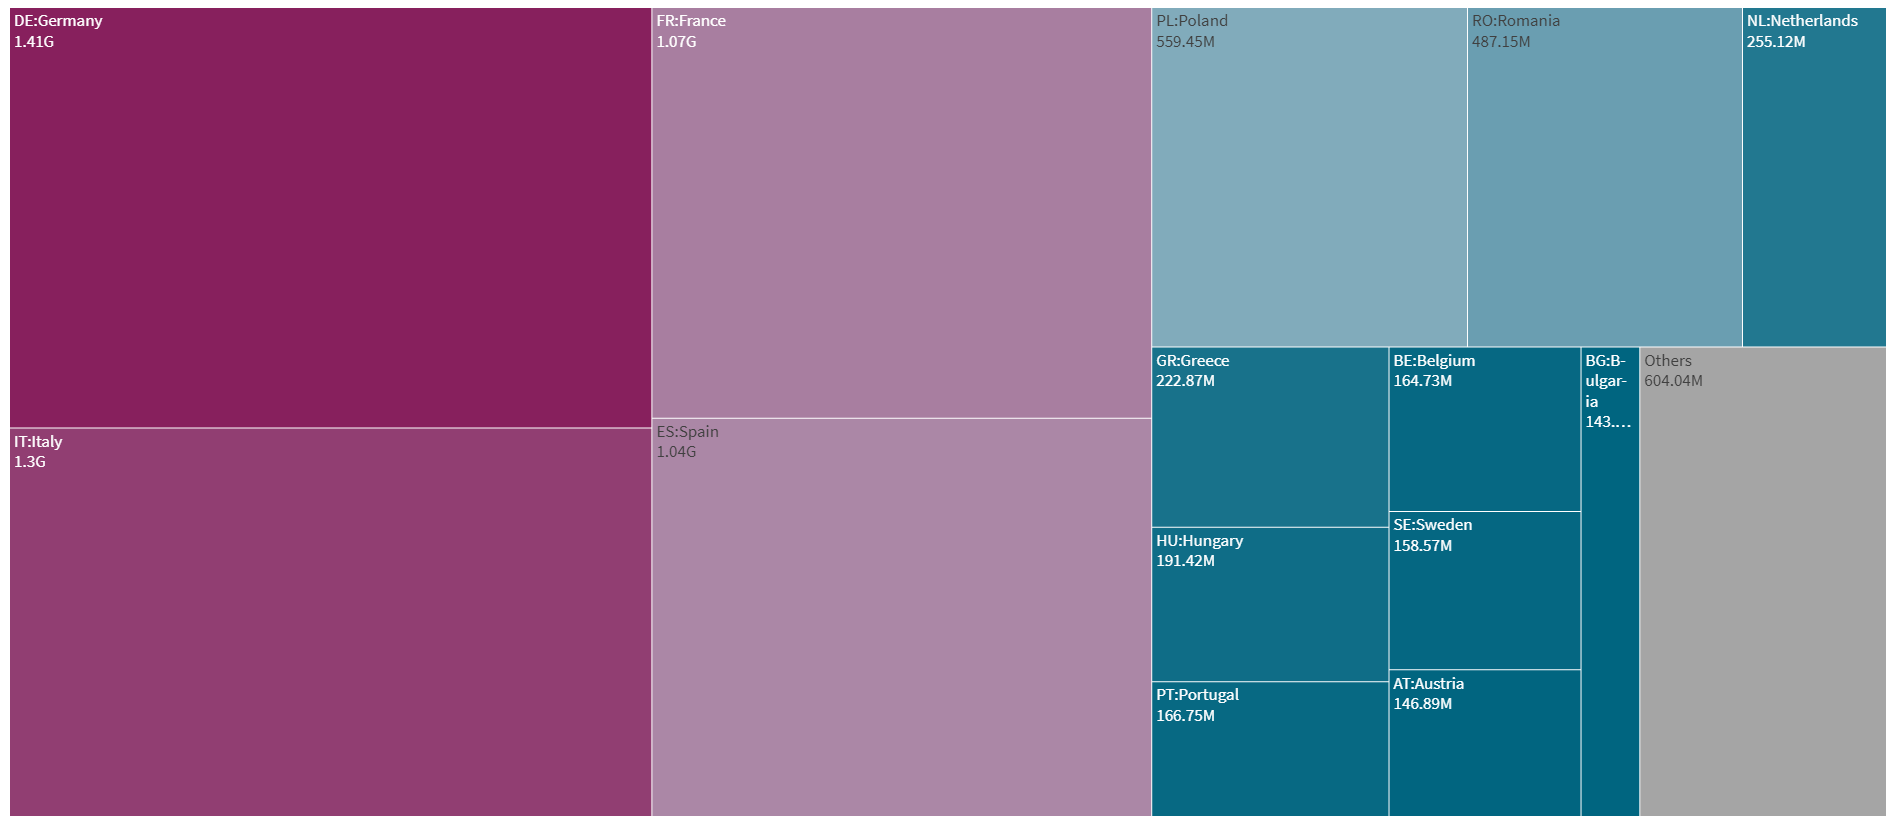
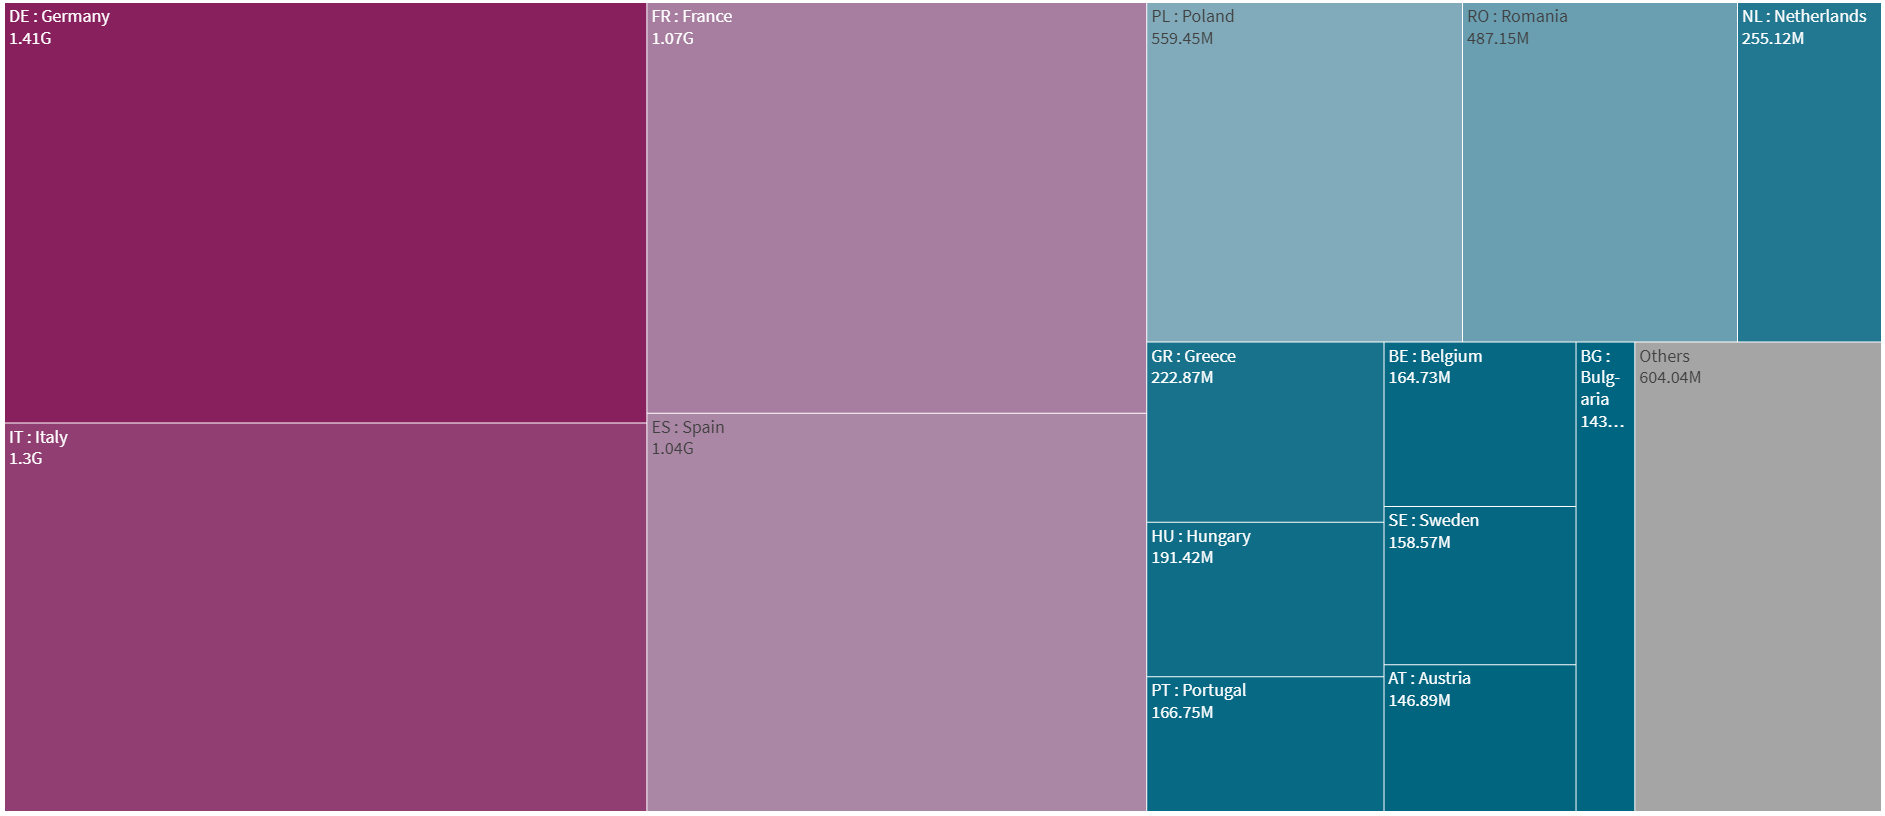
Add files via upload

diff --git a/EU27.html b/EU27.html
@@ -63,10 +63,12 @@
 								LoadData("./data/Load_WorldChart_EU27.csv", "WorldMapChart", "#WorldMapChart_div");
 							</script>
 						</div>
-						<p style="font-size: small; text-align:center">Escrever texto sobre o grafico:<br>
-						siaiohdoihadhsiohoaihdiosah<br>
-						ihihsdiohiohasoihosiahaosihioaho<br>
-						iphasdihasoidhasihaoishdosihaio<br />
+						<p style="font-size: small; text-align:center">Chart description:<br><br>
+						Choropleth Europe map showing prevalence of poverty (share percent of population) EU27 Member States.<br>
+						Countries with higher Share of % Population living under Poverty line Color represented with darker color.<br>
+						Hovering the countries with the mouse shows the % value in each year.<br>
+						Clicking the play button will show the evolution along the years from 2000 until 2021.<br>
+						Initially we wanted to control the year animation for both the Map and the Race Bar chart with the same Play button. Unfortunately, we were not able to overtake some technical chalenges.<br>
 					</div>
 					<!--Div à dir. cima -->
 					<div class="grid-child purple">
@@ -78,27 +80,44 @@
 								LoadData("./data/Load_EU27_RaceChart.csv", "RaceBarChart", "#RaceBar_div");
 							</script>
 						</div>
-						<p style="font-size: small; text-align:center">Escrever texto sobre o grafico:<br>
-						siaiohdoihadhsiohoaihdiosah<br>
-						ihihsdiohiohasoihosiahaosihioaho<br>
-						iphasdihasoidhasihaoishdosihaio<br />
+						<p style="font-size: small; text-align:center">Chart description:<br><br>
+						Race Bar Chart showing evolution of poverty prevalence (share percent of population) in EU27 Member States along the Years.<br>
+						The Chart is sorted descending by Countries with higher prevalence .<br>
+						The Year starts automatically iterating when the page is opened starting from 2000 until 2021.<br>
 					</div>	
+				<div class="grid-child purple">
+					<p style="text-align:center; font-size:22px;font-weight:bold;">Poverty on Gender and Population Head Count<br>
+					<b>&#8681;</b>
+					</p>
+					<img src="./BarLine_EU27.PNG" width="900" height="562"><br>
+					
+					<p style="font-size: small; text-align:center">Chart description:<br><br>
+					Combo Chart With bars showing prevalence of poverty on Female and Male population and line for Total EU27 Head count living under the Poverty line.<br>
+					Showing the evolution along the years from 2000 until 2021.<br>					
+				</div>
 					<div class="grid-child purple">
-						<p style="text-align:center; font-size:22px;font-weight:bold;">Poverty incidence over Female vs. Male Population<br>
+						<p style="text-align:center; font-size:22px;font-weight:bold;">Poverty over Female vs. Male Population<br>
 						<b>&#8681;</b>
 						</p>
 						<div id="LoliPopChart_div" class="LoliPopChart_div">
 							<script>
 								LoadData("./data/Load_LollipopChart_EU27.csv", "LolipopChart", "#LoliPopChart_div");
 							</script>
+					<p style="font-size: small; text-align:center">Chart description:<br><br>
+					Lolipop Chart comparing Share of poverty in Female population vs Male Population.<br>
+					Cross sectional data for Year 2021 for all EU 27 Member States (except Greece as there was no data available).<br />							
 						</div>
 					</div>
-				<div class="grid-child purple">
+				</div>
+					<div class="grid-child purple">
 					<p style="text-align:center; font-size:22px;font-weight:bold;">Contribution of each Country to the Total Nr. of people living under the Proverty Line<br><p style="font-weight:bold; font-size:18px;">Year: 2021</p>
 					<b>&#8681;</b>
 					</p>
-					<img src="./TreeMap_EU27.PNG" width="1100" height="632"><br>
-				</div>
+					<img src="./TreeMap_EU27.PNG" width="1640" height="732"><br>
+					<p style="font-size: small; text-align:center">Chart description:<br><br>
+				TreeMap chart showing the contribution of each country ato the total EU 27 Head Count living under the poverty line.<br>
+				Cross sectional data for Year 2021.<br>				
+					
 				</div>
 			</div>
 			

diff --git a/index.html b/index.html
@@ -63,10 +63,11 @@
 								LoadData("./data/Load_WorldChart_World.csv", "WorldMapChart", "#WorldMapChart_div");
 							</script>
 						</div>
-						<p style="font-size: small; text-align:center">Escrever texto sobre o grafico:<br>
-						siaiohdoihadhsiohoaihdiosah<br>
-						ihihsdiohiohasoihosiahaosihioaho<br>
-						iphasdihasoidhasihaoishdosihaio<br />
+						<p style="font-size: small; text-align:center">Chart description:<br><br>
+						Choropleth World map showing prevalence of poverty (share percent of population) in countries and regions.<br>
+						Countries with higher Share of % Population living under Poverty line Color represented with darker color.<br>
+						Hovering the countries with the mouse shows the % value in each year.<br />
+						Clicking the play button will show the evolution along the years from 2000 until 2021.<br>
 					</div>
 					<!--Div à dir. cima -->
 					<div class="grid-child purple">
@@ -78,10 +79,10 @@
 								LoadData("./data/Load_LineChart_World.csv", "LineChart", "#LineChart_div");
 							</script>
 						</div>
-						<p style="font-size: small; text-align:center">Escrever texto sobre o grafico:<br>
-						siaiohdoihadhsiohoaihdiosah<br>
-						ihihsdiohiohasoihosiahaosihioaho<br>
-						iphasdihasoidhasihaoishdosihaio<br />
+						<p style="font-size: small; text-align:center">Chart description:<br><br>
+						Line chart showing the Trend of % Population living under Poverty Line as average values.<br>
+						One line per Continent plus average for the all World.<br>
+						Hovering with the mouse the lines/dots shows the average % value in each year.<br>
 					</div>	
 					
 				</div>
@@ -92,7 +93,10 @@
 					</p>
 					<img src="./MekkoChart_World.PNG" width="1640" height="732"><br>
 				</div>
-				
+				<p style="font-size: small; text-align:center">Chart description:<br><br>
+				Mekko chart showing the contribution of each country and continent to the total Head Count living under the poverty line.<br>
+				Cross sectional data for Year 2021.
+				Initially we wanted to plot a Sunburst Chart but technical dificulties forced us to choose a Mekko chart which represents the same information with a different visual.<br>
 			</div>
 				
 			<!----------------------------------------------------------------->
